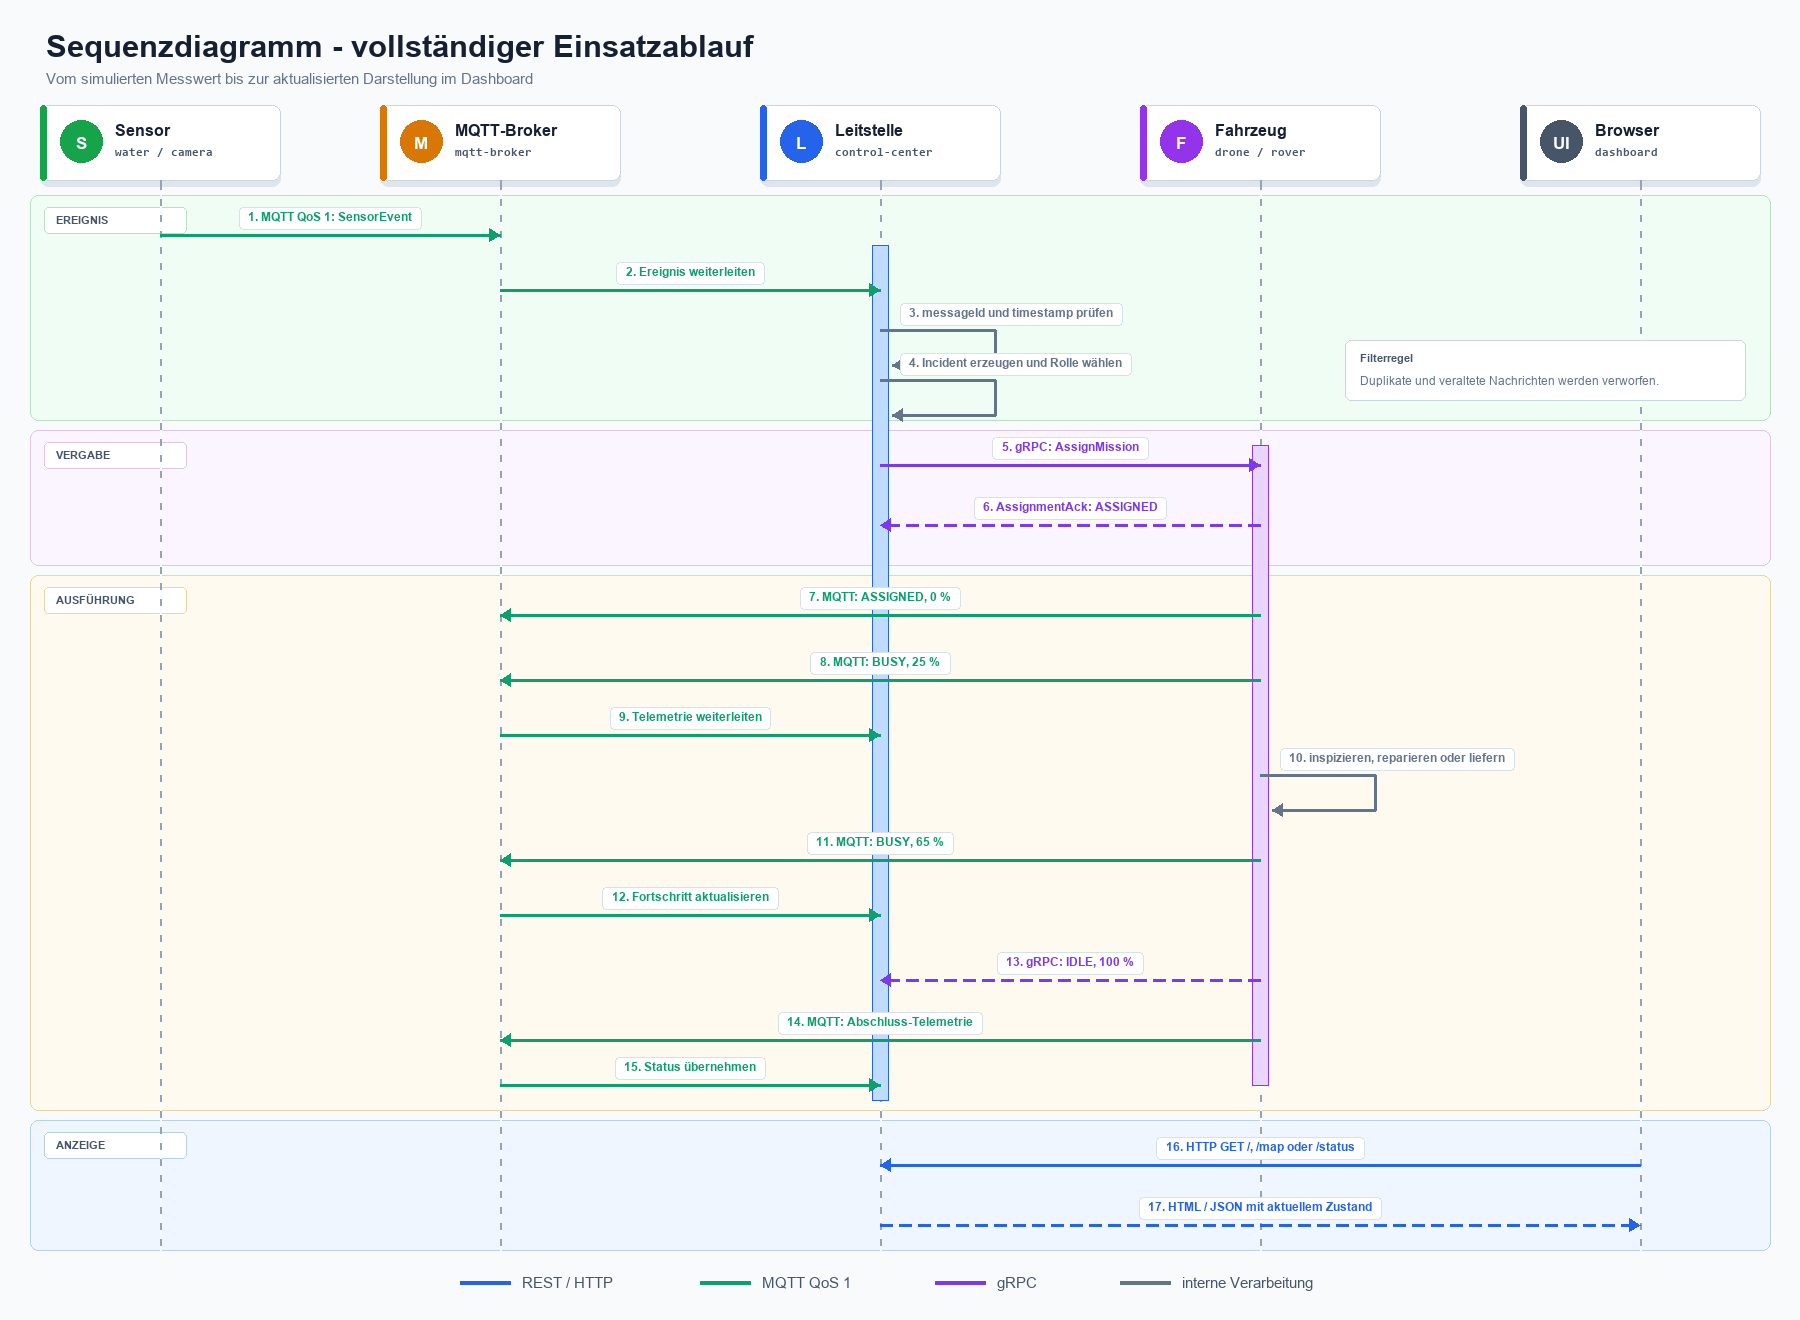
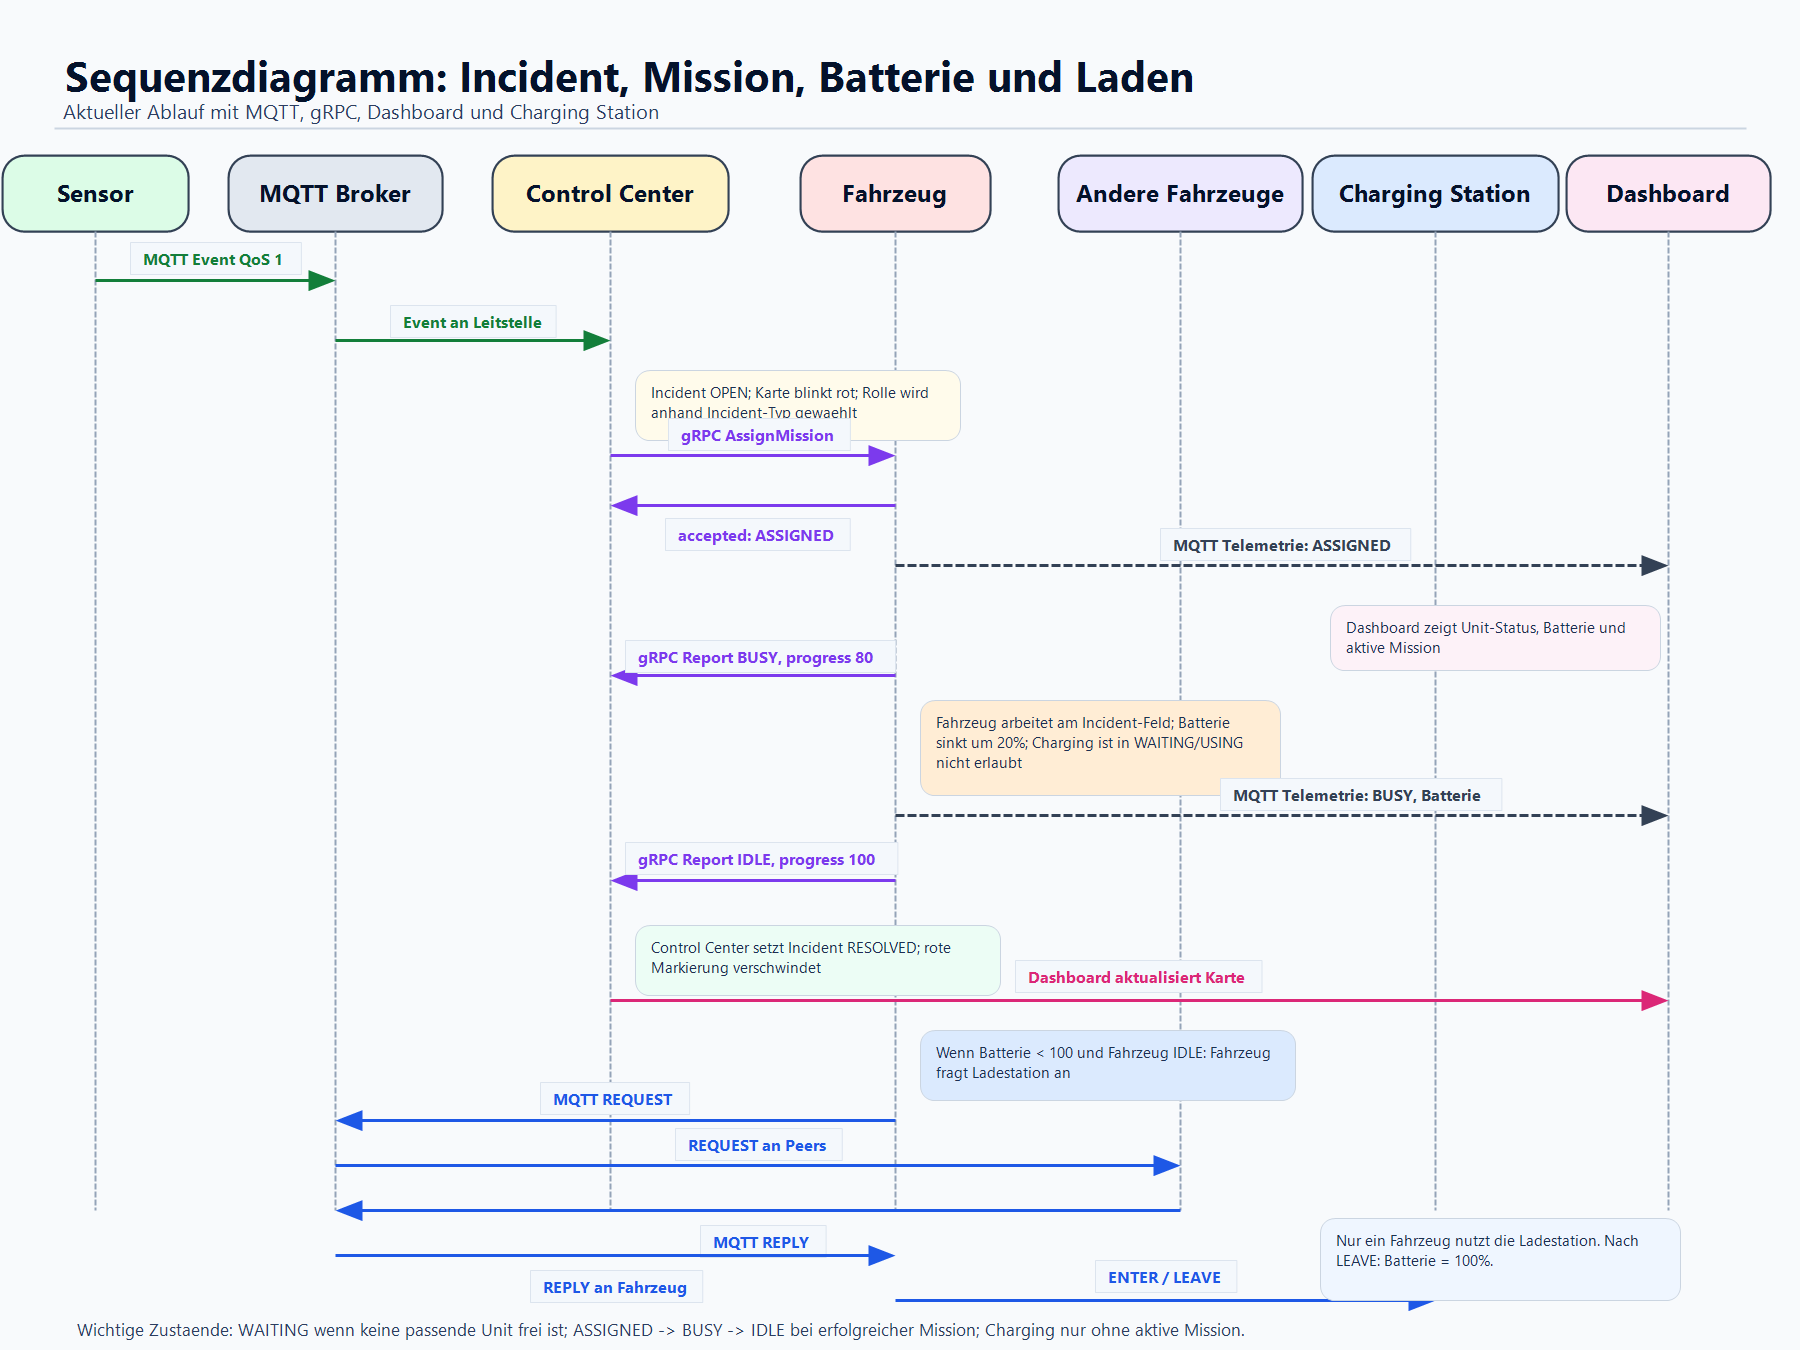
docs: update architecture schema

diff --git a/docs/architecture.md b/docs/architecture.md
@@ -4,18 +4,84 @@
 
 ![Grafische Containerarchitektur](architecture.png)
 
-**Legende:** Durchgezogene Linien zeigen MQTT/HTTP-Datenflüsse, gestrichelte Linien die REST-Registrierung und dicke Linien die gRPC-Einsatzkommunikation.
+**Legende:** Durchgezogene Linien zeigen MQTT/HTTP-Datenflüsse, gestrichelte Linien die REST-Registrierung und dicke Linien die gRPC-Einsatzkommunikation. Die Bilder zeigen die Hauptarchitektur; Details wie Batterie- und Ladestationslogik sind darunter textuell ergänzt.
 
 ### Kommunikationsübersicht
 
 | Kommunikation | Zweck |
 |---|---|
-| REST/HTTP | Registrierung von Sensoren und Fahrzeugen sowie Abfrage von Dashboard, Karte und Status |
+| TCP/HTTP + REST | Registrierung von Sensoren und Fahrzeugen, manuelle Vorfallerzeugung, Löschen von Vorfällen sowie Abfrage von Dashboard, Karte und Status |
 | gRPC | Zuweisung von Einsätzen und Rückmeldung des Einsatzstatus |
-| MQTT mit QoS 1 | Veröffentlichung von Sensorereignissen, Gefahrenmeldungen und Fahrzeugtelemetrie |
+| MQTT mit QoS 1 | Veröffentlichung von Sensorereignissen, Gefahrenmeldungen, Fahrzeugtelemetrie und Ladestationskoordination |
+
+## Container
+
+| Container | Aufgabe |
+|---|---|
+| `mqtt-broker` | Mosquitto-Broker für MQTT-Kommunikation |
+| `control-center` | Leitstelle mit TCP/HTTP-Server, REST-Endpunkten, Dashboard, MQTT-Handler und gRPC-Missionsvergabe |
+| `drone-1` | Einsatzdrohne für Personenerkennung, Wasserstandsalarm und schwer erreichbare Orte |
+| `repair-rover-1` | Reparatur-Rover für blockierte Wege, Struktur- und Brückenschäden |
+| `supply-rover-1` | Versorgungs-Rover für niedrige Bestände und Materialbedarf |
+| `water-sensor` | Simulierter Wassersensor, sendet MQTT-Ereignisse |
+| `camera-sensor` | Simulierter Kamerasensor, sendet MQTT-Ereignisse |
+
+## Modulstruktur
+
+### Control Center
+
+| Datei | Aufgabe |
+|---|---|
+| `server.js` | Startet HTTP/TCP, MQTT und gRPC |
+| `http.js` | REST-Routen und HTTP-Antworten |
+| `mqtt.js` | MQTT-Verbindung und Verarbeitung von Sensor-/Fahrzeugnachrichten |
+| `missions.js` | Vorfälle, Rollenzuordnung, Missionsvergabe und Statusrückmeldungen |
+| `dashboard.js` | HTML-Dashboard mit Karte, Units, Incidents, Missions und Charging-Status |
+| `map.js` | Inselkarte und Infrastruktur |
+| `requestParser.js` | Parsing der TCP/HTTP-Requests |
+
+### Emergency Vehicle
+
+| Datei | Aufgabe |
+|---|---|
+| `vehicle.js` | Startet ein Fahrzeug |
+| `mqtt.js` | Telemetrie, Gefahrenreaktion und Ladestationskoordination |
+| `missions.js` | gRPC-Aufträge, Missionssimulation und Batterieverbrauch |
+| `config.js` | Rollen, Fähigkeiten und Fahrzeugkonfiguration |
+
+## Einsatz- und Datenfluss
+
+1. Sensoren senden Ereignisse über MQTT.
+2. Die Leitstelle filtert und verarbeitet diese Ereignisse.
+3. Bei einem relevanten Ereignis entsteht ein Incident.
+4. `missions.js` ordnet den Incident einer Rolle zu:
+   - `person_detected`, `water_level_alert` oder schwer erreichbare Orte -> `drone`
+   - `blocked_route`, `structure_damage`, `bridge_damage` -> `repair_rover`
+   - `supply_low`, `material_request` -> `supply_rover`
+5. Die Leitstelle vergibt die Mission per gRPC an ein freies passendes Fahrzeug.
+6. Das Fahrzeug meldet Fortschritt und Abschluss per gRPC zurück.
+7. Zusätzlich sendet das Fahrzeug Telemetrie per MQTT, damit Dashboard und Status aktuell bleiben.
+8. Nach Abschluss wird der Incident als gelöst markiert und die rote Markierung verschwindet im Dashboard.
+
+Wenn kein passendes Fahrzeug frei ist, bleibt die Mission zunächst im Zustand `WAITING`. Sobald ein passendes Fahrzeug wieder verfügbar ist, versucht die Leitstelle die wartende Mission erneut zuzuweisen.
+
+## Batterie und Ladestation
+
+Jedes Fahrzeug besitzt einen Batteriestand. Während einer Mission werden aktuell `20%` Batterie verbraucht. Fahrzeuge mit leerer Batterie können keine neue Mission annehmen.
+
+Die Ladestation ist eine gemeinsam genutzte Ressource. Fahrzeuge koordinieren den Zugriff dezentral über MQTT-Nachrichten:
+
+| Nachricht | Bedeutung |
+|---|---|
+| `REQUEST` | Fahrzeug möchte die Ladestation nutzen |
+| `REPLY` | Anderes Fahrzeug erlaubt den Zugriff |
+| `ENTER` | Fahrzeug betritt die Ladestation |
+| `LEAVE` | Fahrzeug verlässt die Ladestation |
+
+Ein Fahrzeug darf nicht gleichzeitig arbeiten und laden. Es fragt die Ladestation nur an, wenn es frei ist, keine aktive Mission hat und die Batterie nicht voll ist. Nach dem Laden wird die Batterie wieder auf `100%` gesetzt. Die Leitstelle trifft hier keine Ladeentscheidung, sondern beobachtet nur die Koordination und zeigt den Status im Dashboard an.
 
 ## Sequenzdiagramm des Einsatzablaufs
 
 ![Sequenzdiagramm des vollständigen Einsatzablaufs](sequence-diagram.png)
 
-Das Diagramm zeigt den zeitlichen Ablauf von einem simulierten Sensorwert bis zur aktualisierten Anzeige im Dashboard. Die Leitstelle filtert MQTT-Nachrichten, erzeugt einen Vorfall, wählt eine Fahrzeugrolle und vergibt den Einsatz per gRPC. Fortschritt und Abschluss werden anschließend über gRPC und MQTT zurückgemeldet.
+Das Diagramm zeigt den zeitlichen Ablauf von einem simulierten Sensorwert bis zur aktualisierten Anzeige im Dashboard. Die Leitstelle filtert MQTT-Nachrichten, erzeugt einen Vorfall, wählt eine Fahrzeugrolle und vergibt den Einsatz per gRPC. Fortschritt und Abschluss werden anschließend über gRPC und MQTT zurückgemeldet. Die zusätzliche Batterie- und Ladestationslogik läuft parallel über die MQTT-Koordination der Fahrzeuge.
